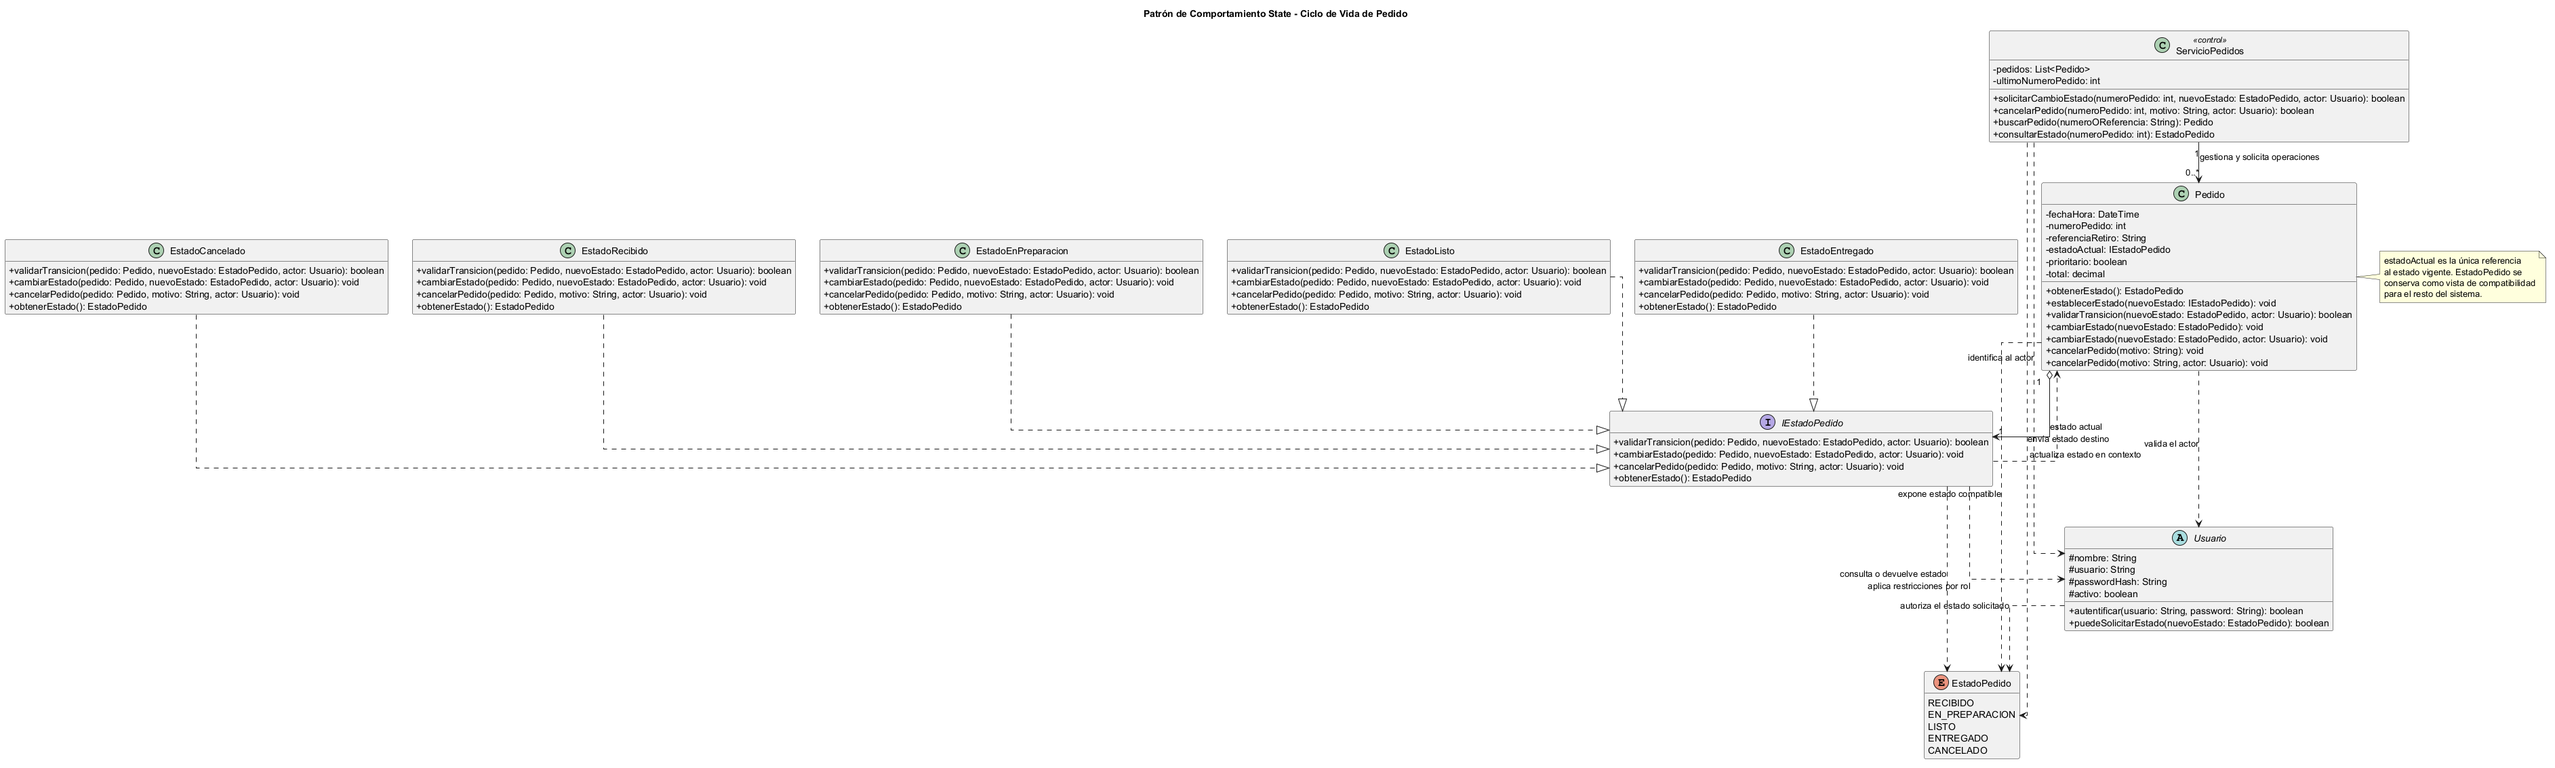
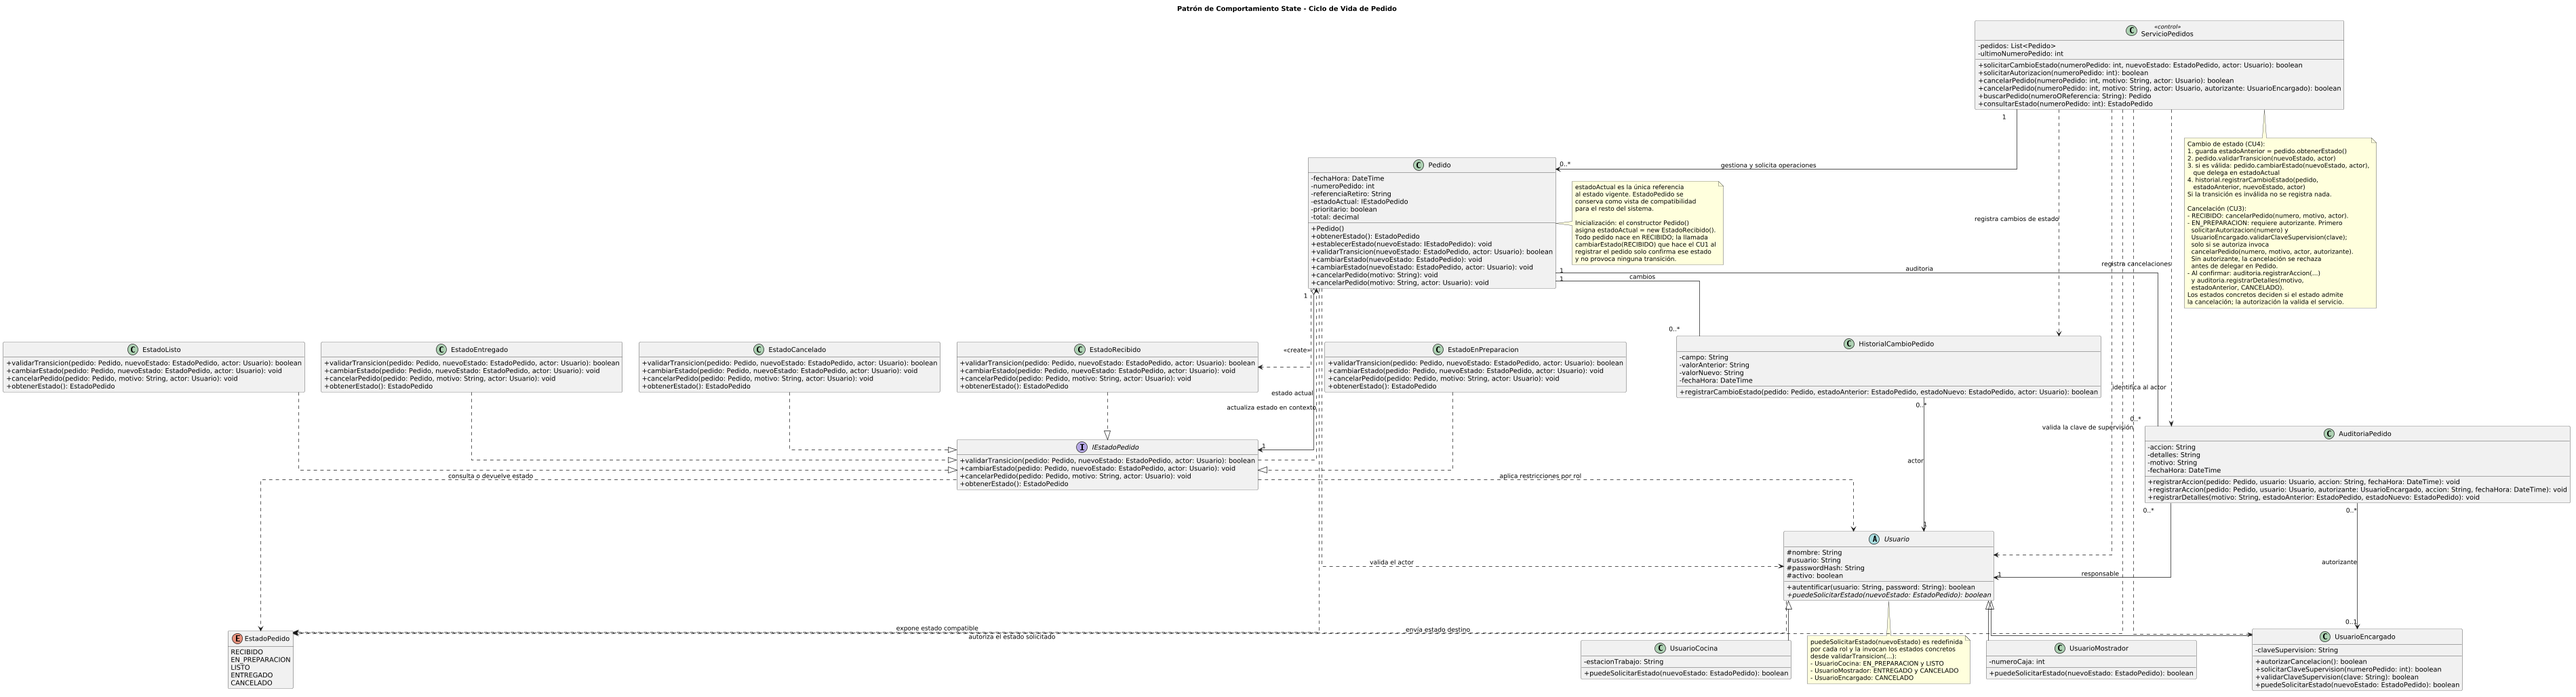
fix: completo inicialización, autorización, historial y contratos del patrón State (RC4, RC5, RC6, RC7, RC8, RC11)

diff --git a/anexos/patrones-diseno/patron-de-diseno-de-comportamiento.md b/anexos/patrones-diseno/patron-de-diseno-de-comportamiento.md
@@ -58,7 +58,7 @@ Los estados terminales `ENTREGADO` y `CANCELADO` rechazan transiciones y cancela
 
 ## Estructura de Clases
 
-El diagrama representa únicamente las clases e interfaces directamente implicadas en la aplicación de State, manteniendo el contexto necesario para comprender la delegación sin incluir actores concretos adicionales.
+El diagrama representa únicamente las clases e interfaces directamente implicadas en la aplicación de State. Además del contexto y los estados, incluye a las subclases de `Usuario`, que redefinen `puedeSolicitarEstado(...)`, y a `HistorialCambioPedido` y `AuditoriaPedido`, porque la trazabilidad de cada transición forma parte del flujo del patrón.
 
 ![Diagrama de Clases - Patrón State](../../diagramas/01-diagrama-clases/01-patron-comportamiento-state.png)
 
@@ -72,15 +72,24 @@ El diagrama representa únicamente las clases e interfaces directamente implicad
 
 `ServicioPedidos` actúa como cliente del patrón. Inicia cambios de estado y cancelaciones a través de operaciones como `solicitarCambioEstado(numeroPedido: int, nuevoEstado: EstadoPedido, actor: Usuario): boolean` y `cancelarPedido(numeroPedido: int, motivo: String, actor: Usuario): boolean`. Localiza el `Pedido`, conserva el actor y el estado solicitado, y delega la operación sin conocer las clases concretas de estado. Esta separación mantiene a la aplicación desacoplada de las implementaciones concretas.
 
+`ServicioPedidos` también conserva las dos responsabilidades de aplicación que el patrón no traslada a los estados:
+
+- **Autorización de cancelaciones supervisadas:** mantiene `solicitarAutorizacion(numeroPedido: int): boolean` y la sobrecarga `cancelarPedido(numeroPedido: int, motivo: String, actor: Usuario, autorizante: UsuarioEncargado): boolean` del diagrama final. Cuando el pedido está `EN_PREPARACION`, primero solicita la clave al encargado (`UsuarioEncargado.solicitarClaveSupervision(...)` y `validarClaveSupervision(...)`) y solo si la autorización es válida delega la cancelación en `Pedido`. Si la solicitud llega sin autorizante, la rechaza antes de delegar, igual que en la secuencia del CU3.
+- **Historial y auditoría:** antes de delegar guarda `estadoAnterior = pedido.obtenerEstado()`. Si la transición se concreta, registra el cambio con `HistorialCambioPedido.registrarCambioEstado(pedido, estadoAnterior, nuevoEstado, actor)` (CU4). En una cancelación confirmada, registra la acción con `AuditoriaPedido.registrarAccion(...)`, con o sin autorizante, y el detalle con `registrarDetalles(motivo, estadoAnterior, CANCELADO)` (CU3).
+
+Los estados concretos deciden si el estado actual admite la operación, pero no registran historial ni validan claves de supervisión. Así cada estado conserva una única responsabilidad, y el registro queda en el mismo punto donde lo ubican las secuencias del CU3 y el CU4 y el diagrama final (`ServicioPedidos ..> HistorialCambioPedido` y `ServicioPedidos ..> AuditoriaPedido`).
+
 ### Pedido
 
 `Pedido` es el contexto State. Conserva los datos propios de la orden y sustituye el atributo redundante `estado: EstadoPedido` por `estadoActual: IEstadoPedido`. Expone `obtenerEstado(): EstadoPedido`, `establecerEstado(nuevoEstado: IEstadoPedido): void`, `validarTransicion(nuevoEstado: EstadoPedido, actor: Usuario): boolean`, las variantes `cambiarEstado(nuevoEstado: EstadoPedido): void` y `cambiarEstado(nuevoEstado: EstadoPedido, actor: Usuario): void`, y las variantes `cancelarPedido(motivo: String): void` y `cancelarPedido(motivo: String, actor: Usuario): void`.
+
+**Inicialización del estado:** el constructor `Pedido()` asigna `estadoActual = new EstadoRecibido()`, por eso el diagrama muestra la dependencia `Pedido ..> EstadoRecibido : <<create>>`. Ningún pedido existe sin estado: nace en `RECIBIDO`, que es el estado inicial definido en el CU1. La llamada `cambiarEstado(RECIBIDO)` que la secuencia del CU1 y el happy path realizan al registrar el pedido se mantiene como confirmación: como el pedido ya está en `RECIBIDO`, no provoca ninguna transición ni reemplaza la instancia de estado.
 
 Sus métodos delegan en `estadoActual`; `establecerEstado(...)` permite a un estado concreto actualizar al siguiente estado sin que `Pedido` conozca la implementación. `Pedido.obtenerEstado()` consulta `estadoActual.obtenerEstado()` y proporciona al resto del sistema el enum compatible.
 
 Se conservan las firmas originales `cambiarEstado(nuevoEstado: EstadoPedido): void` y `cancelarPedido(motivo: String): void`, junto con sus sobrecargas que reciben `actor: Usuario`, para mantener compatibilidad con los artefactos previos del sistema y habilitar la validación por rol en la delegación al estado actual.
 
-La sobrecarga `cancelarPedido(numeroPedido: int, motivo: String, actor: Usuario, autorizante: UsuarioEncargado): boolean` del diagrama final también delega la cancelación en el estado actual, conservando al autorizante como actor responsable de la operación especial.
+La sobrecarga `ServicioPedidos.cancelarPedido(numeroPedido: int, motivo: String, actor: Usuario, autorizante: UsuarioEncargado): boolean` del diagrama final valida primero la clave del encargado y recién después delega en `Pedido.cancelarPedido(motivo, actor)`. Por eso la firma de cancelación de `IEstadoPedido` no necesita recibir al autorizante: la autorización ya está resuelta cuando la operación llega al estado actual, y las firmas de `Pedido` coinciden con las del diagrama final y las secuencias.
 
 ### IEstadoPedido
 
@@ -90,15 +99,15 @@ Los métodos que provocan transición reciben `pedido` para que el objeto concre
 
 ### EstadoRecibido
 
-`EstadoRecibido` encapsula el comportamiento mientras el pedido está en `RECIBIDO`. Puede aceptar el paso a `EN_PREPARACION`, cuando corresponde al rol autorizado, y puede permitir cancelación cuando las reglas del sistema lo admitan. Implementa `obtenerEstado()` devolviendo `EstadoPedido.RECIBIDO`.
+`EstadoRecibido` encapsula el comportamiento mientras el pedido está en `RECIBIDO`. Puede aceptar el paso a `EN_PREPARACION` cuando el actor lo puede solicitar (`actor.puedeSolicitarEstado(EN_PREPARACION)`) y admite la cancelación directa, sin autorización del encargado, como establece el CU3. Implementa `obtenerEstado()` devolviendo `EstadoPedido.RECIBIDO`.
 
 ### EstadoEnPreparacion
 
-`EstadoEnPreparacion` representa que el pedido está siendo preparado. Puede validar el paso a `LISTO`, normalmente iniciado por `UsuarioCocina`, y restringir modificaciones o cancelaciones según las reglas vigentes. Implementa `obtenerEstado()` devolviendo `EstadoPedido.EN_PREPARACION`.
+`EstadoEnPreparacion` representa que el pedido está siendo preparado. Puede validar el paso a `LISTO`, iniciado por `UsuarioCocina`. Admite la cancelación solo cuando llega desde la cancelación supervisada de `ServicioPedidos`, que ya validó la clave del encargado (flujo alternativo A1 del CU3). Implementa `obtenerEstado()` devolviendo `EstadoPedido.EN_PREPARACION`.
 
 ### EstadoListo
 
-`EstadoListo` representa el pedido preparado y disponible para entrega. Puede validar la transición a `ENTREGADO`, realizada por el flujo de atención, y rechazar nuevas solicitudes de preparación. Implementa `obtenerEstado()` devolviendo `EstadoPedido.LISTO`.
+`EstadoListo` representa el pedido preparado y disponible para entrega. Puede validar la transición a `ENTREGADO`, que solicita `UsuarioMostrador`, y rechaza nuevas solicitudes de preparación y la cancelación (flujo alternativo A3 del CU3). Implementa `obtenerEstado()` devolviendo `EstadoPedido.LISTO`.
 
 ### EstadoEntregado
 
@@ -116,26 +125,42 @@ No mantiene atributos paralelos en `Pedido`; por tanto, el enum no duplica ni su
 
 ### Usuario
 
-`Usuario` es la abstracción utilizada para validar quién solicita una operación. La operación `puedeSolicitarEstado(nuevoEstado: EstadoPedido): boolean` permite que cada tipo de usuario concrete las operaciones de estado que puede solicitar, de modo que los estados consulten la autorización mediante la abstracción y sin utilizar verificaciones sobre tipos concretos. Cada subclase redefine este comportamiento según su rol. Aunque `UsuarioMostrador`, `UsuarioCocina` y `UsuarioEncargado` no aparecen en el diagrama de detalle, sus responsabilidades se aplican conceptualmente:
+`Usuario` es la abstracción utilizada para validar quién solicita una operación. Declara la operación abstracta `puedeSolicitarEstado(nuevoEstado: EstadoPedido): boolean`, que permite que cada tipo de usuario indique qué estados puede solicitar. Así los estados consultan la autorización mediante la abstracción, sin verificaciones sobre tipos concretos.
 
-- `UsuarioMostrador`: operación desde atención y entrega.
-- `UsuarioCocina`: inicio y finalización de preparación.
-- `UsuarioEncargado`: autorización especial y supervisión.
+Esta operación es un **contrato nuevo** que incorpora el patrón. Para que quede trazado, se agregó también al diagrama de clases final (`06-clases-diagrama-final.puml`), en `Usuario` y en sus tres subclases, y se documentó en la tarjeta CRC de `Usuario`. No reemplaza a ninguna operación existente: la invocan los estados concretos desde `validarTransicion(...)`, que es la operación que ya usan la secuencia del CU4 y el happy path.
+
+Cada subclase la redefine según su rol, de acuerdo con el CU3 y el CU4:
+
+| Subclase | Estados que puede solicitar | Origen |
+|---|---|---|
+| `UsuarioCocina` | `EN_PREPARACION` y `LISTO` | CU4: Cocina inicia y finaliza la preparación |
+| `UsuarioMostrador` | `ENTREGADO` y `CANCELADO` | CU4: registra la entrega; CU3: inicia la cancelación |
+| `UsuarioEncargado` | `CANCELADO` | CU3: inicia o autoriza cancelaciones supervisadas |
 
 Esto reduce el acoplamiento a implementaciones concretas y respeta DIP.
+
+### HistorialCambioPedido
+
+`HistorialCambioPedido` conserva la trazabilidad de cada cambio de estado: el estado anterior, el nuevo, la fecha y hora y el actor. Su operación `registrarCambioEstado(pedido: Pedido, estadoAnterior: EstadoPedido, estadoNuevo: EstadoPedido, actor: Usuario): boolean` es la misma del diagrama final y la secuencia del CU4. La invoca `ServicioPedidos` después de que `Pedido` concreta la transición delegada en el estado actual. Si la transición es inválida, no se registra ningún cambio.
+
+### AuditoriaPedido
+
+`AuditoriaPedido` registra las cancelaciones. `ServicioPedidos` invoca `registrarAccion(pedido, usuario, accion, fechaHora)` para una cancelación directa, o `registrarAccion(pedido, usuario, autorizante, accion, fechaHora)` cuando hubo autorización del encargado, y luego `registrarDetalles(motivo, estadoAnterior, estadoNuevo)`. Son las mismas operaciones que usan el diagrama final y la secuencia del CU3.
 
 ### Descripción del flujo del comportamiento
 
 #### Escenario 1: transición válida de `RECIBIDO` a `EN_PREPARACION`
 
+0. El pedido se creó con `Pedido()`, cuyo constructor asignó `estadoActual = new EstadoRecibido()`.
 1. `ServicioPedidos.solicitarCambioEstado(...)` recibe el número del pedido, `EN_PREPARACION` y un `UsuarioCocina` que actúa como actor.
-2. `ServicioPedidos` obtiene el `Pedido` correspondiente y solicita `Pedido.validarTransicion(EN_PREPARACION, actor)`.
+2. `ServicioPedidos` obtiene el `Pedido` correspondiente, guarda `estadoAnterior = pedido.obtenerEstado()` (`RECIBIDO`) y solicita `Pedido.validarTransicion(EN_PREPARACION, actor)`.
 3. `Pedido` delega la validación a `estadoActual`, que en este momento es una instancia de `EstadoRecibido`.
 4. `EstadoRecibido` verifica el estado destino y solicita `actor.puedeSolicitarEstado(EN_PREPARACION)`. Esta operación polimórfica permite que la subclase concreta del usuario indique si puede iniciar preparación sin que `EstadoRecibido` conozca su tipo. Si la operación es válida, devuelve `true`.
 5. `ServicioPedidos` solicita `Pedido.cambiarEstado(EN_PREPARACION, actor)`.
 6. `Pedido.cambiarEstado(...)` delega en `estadoActual.cambiarEstado(pedido, EN_PREPARACION, actor)`.
 7. `EstadoRecibido` solicita `Pedido.establecerEstado(...)`, pasando una nueva instancia de `EstadoEnPreparacion`.
 8. `Pedido` reemplaza `estadoActual` y el mismo pedido pasa a exponer `EstadoPedido.EN_PREPARACION` mediante `obtenerEstado()`.
+9. Con la transición concretada, `ServicioPedidos` registra el cambio con `HistorialCambioPedido.registrarCambioEstado(pedido, RECIBIDO, EN_PREPARACION, actor)`, igual que en la secuencia del CU4.
 
 #### Escenario 2: cancelación desde `ENTREGADO`
 
@@ -144,4 +169,14 @@ Esto reduce el acoplamiento a implementaciones concretas y respeta DIP.
 3. `Pedido` delega la operación a `estadoActual`, que en ese momento es una instancia de `EstadoEntregado`.
 4. `EstadoEntregado` determina que el pedido ya fue entregado y rechaza la cancelación ordinaria mediante el cambio de estado.
 5. Como no se alcanza `Pedido.establecerEstado(...)`, `estadoActual` permanece como `EstadoEntregado` y `Pedido.obtenerEstado()` continúa devolviendo `EstadoPedido.ENTREGADO`.
+6. Como la cancelación no se concretó, `ServicioPedidos` no registra ninguna acción en `AuditoriaPedido`.
+
+#### Escenario 3: cancelación supervisada desde `EN_PREPARACION`
+
+1. `ServicioPedidos.cancelarPedido(numeroPedido, motivo, actor)` recibe la solicitud de un `UsuarioMostrador`. Comprueba que el pedido está `EN_PREPARACION` y, como falta el autorizante, no delega en `Pedido` y responde que se requiere autorización (flujo alternativo A1 del CU3).
+2. `ServicioPedidos.solicitarAutorizacion(numeroPedido)` pide la intervención del encargado: `UsuarioEncargado.solicitarClaveSupervision(numeroPedido)` y `validarClaveSupervision(clave)`.
+3. Con la autorización válida, se invoca `ServicioPedidos.cancelarPedido(numeroPedido, motivo, actor, autorizante)`, que guarda `estadoAnterior = pedido.obtenerEstado()` y delega en `Pedido.cancelarPedido(motivo, actor)`.
+4. `Pedido` delega en `estadoActual`, que es `EstadoEnPreparacion`. Como la autorización ya fue validada por el servicio, el estado admite la cancelación y solicita `Pedido.establecerEstado(...)` con una nueva instancia de `EstadoCancelado`.
+5. `ServicioPedidos` registra la acción con `AuditoriaPedido.registrarAccion(pedido, actor, autorizante, "CANCELACION", fechaHora)` y el detalle con `registrarDetalles(motivo, EN_PREPARACION, CANCELADO)`, como en la secuencia del CU3.
+6. Si el encargado deniega la autorización (flujo alternativo A2), `ServicioPedidos` no delega la cancelación: el estado del pedido no cambia y no se registra ninguna acción.
 6. El flujo evita condicionales globales dentro de `Pedido` y garantiza que no se pueda cancelar un pedido desde un estado terminal.

diff --git a/ia/segundo-parcial/especialista-patron-comportamiento.md b/ia/segundo-parcial/especialista-patron-comportamiento.md
@@ -94,7 +94,7 @@ Creá el archivo:
 - Justificación Técnica de la Estructura de Clases (detalle de cada clase y flujo paso a paso en dos escenarios reales)
 
 ### Restricciones
-- NO modifiques `README.md`, `anexos/anexos.md`, `anexos/patrones-diseno/patrones_diseno.md` ni `diagramas/01-diagrama-clases/diagramas_clases.md`.
+- NO modifiques `README.md`, `anexos/anexos.md`, `anexos/patrones-diseno/patrones_diseno.md` ni `diagramas/01-diagrama-clases/diagramas_de_clases.md`.
 ```
 
 ---
@@ -272,3 +272,10 @@ end note
 **Justificación:**
 
 - Los ajustes garantizaron la fidelidad técnica con la estructura clásica del patrón GoF State, evitaron acoplamientos indebidos del cliente (`ServicioPedidos`) hacia la interfaz interna de estados, aseguraron consistencia total entre el diagrama UML y el texto del anexo, y mejoraron la claridad visual y la precisión académica de los entregables finales.
+
+---
+
+## 5. Correcciones posteriores a la revisión docente
+
+- **RC8:** la restricción del prompt de la iteración 2 citaba el índice de diagramas de clases con un nombre que no existe en el repositorio (sin el `_de_`). Se corrigió por `diagramas/01-diagrama-clases/diagramas_de_clases.md` y se verificó que las demás rutas citadas en este registro existan. La única excepción es `01-diagrama-clases-final.puml`, que es el nombre que usa la consigna y que el mismo prompt aclara que corresponde a `06-clases-diagrama-final.puml`.
+- Los RC4 a RC7 y RC11 del patrón se resolvieron en el diagrama y en el anexo, sin una nueva iteración con IA: inicialización del estado, autorización de la cancelación, contrato de `puedeSolicitarEstado(...)`, historial y auditoría.
